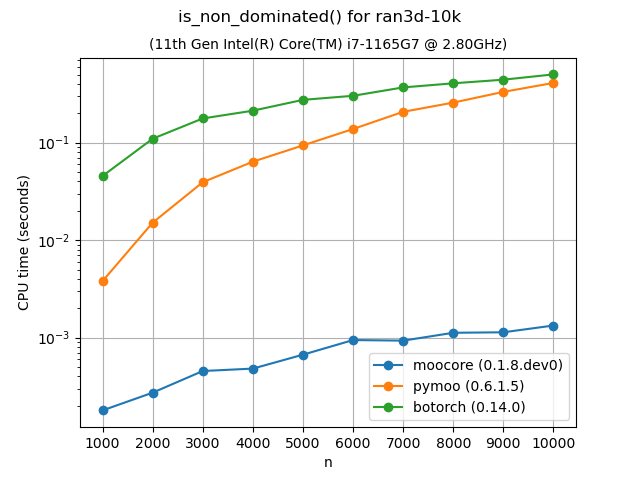
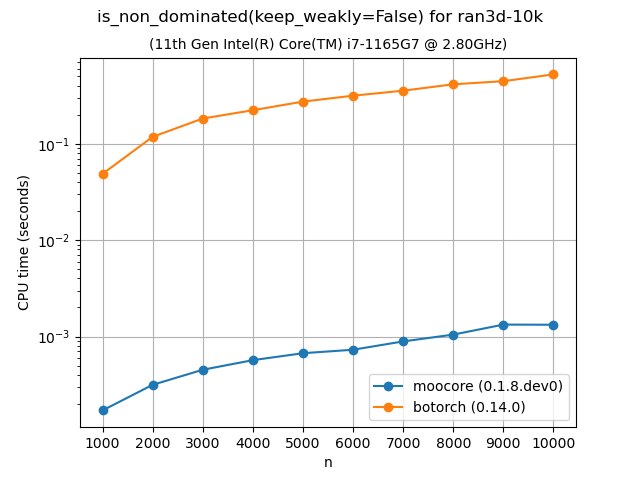
python/ Improve ndom benchmarks.

diff --git a/python/benchmarks/bench_ndom.py b/python/benchmarks/bench_ndom.py
@@ -22,12 +22,12 @@ from pymoo.util.nds.non_dominated_sorting import (
 
 # See https://github.com/multi-objective/testsuite/tree/main/data
 files = {
-    "test2D-200k": dict(file="test2D-200k.inp.xz", range=(1000, 10000, 1000)),
-    "ran3d-10k": dict(file="ran.1000pts.3d.10", range=(1000, 10000, 1000)),
+    "test2D-200k": dict(file="test2D-200k.inp.xz", range=(2000, 20_000, 2000)),
+    "ran3d-10k": dict(file="ran.1000pts.3d.10", range=(1000, 10_000, 1000)),
 }
 
 
-title = "is_non_dominated()"
+title = "is_non_dominated(keep_weakly=False)"
 file_prefix = "ndom"
 
 names = files.keys()
@@ -40,14 +40,60 @@ for name in names:
         n=n,
         bench={
             "moocore": lambda z: np.nonzero(
-                moocore.is_nondominated(z, maximise=True)
+                moocore.is_nondominated(z, maximise=True, keep_weakly=False)
+            )[0],
+            "botorch": lambda z: np.nonzero(
+                np.asarray(botorch_is_non_dominated(z, deduplicate=True))
+            )[0],
+        },
+    )
+
+    values = {}
+    for maxrow in n:
+        z = x[:maxrow, :]
+        for what in bench.keys():
+            if what == "botorch":
+                # Exclude the conversion to torch from the timing.
+                zz = torch.from_numpy(z)
+            else:
+                zz = z
+            values[what] = bench(what, maxrow, zz)
+
+        # Check values
+        for what in bench.keys():
+            if what == "moocore":
+                continue
+            a = values["moocore"]
+            b = values[what]
+            assert np.array_equal(a, b), (
+                f"In {name}, maxrow={maxrow}, {what}={b}  not equal to moocore={a}"
+            )
+
+    del values
+    bench.plots(file_prefix=file_prefix, title=title)
+
+
+title = "is_non_dominated(keep_weakly=True)"
+file_prefix = "wndom"
+
+names = files.keys()
+for name in names:
+    x = moocore.get_dataset(files[name]["file"])[:, :-1]
+    n = get_range(len(x), *files[name]["range"])
+
+    bench = Bench(
+        name=name,
+        n=n,
+        bench={
+            "moocore": lambda z: np.nonzero(
+                moocore.is_nondominated(z, maximise=True, keep_weakly=True)
+            )[0],
+            "botorch": lambda z: np.nonzero(
+                np.asarray(botorch_is_non_dominated(z, deduplicate=False))
             )[0],
             "pymoo": lambda z: pymoo_NonDominatedSorting().do(
                 -z, only_non_dominated_front=True
             ),
-            "botorch": lambda z: np.nonzero(
-                np.asarray(botorch_is_non_dominated(z))
-            )[0],
         },
     )
 

diff --git a/python/doc/source/index.rst b/python/doc/source/index.rst
@@ -80,18 +80,26 @@ The following plots compare the speed of computing the :ref:`hypervolume indicat
    :width: 49%
 
 
-The following plots compare the speed of finding nondominated solutions, equivalent to :func:`moocore.is_nondominated`, in 2D and 3D. As the plots show, `moocore`_ is more than 100 times faster in 2D and 3D than the other packages.
+The following plots compare the speed of finding nondominated solutions, equivalent to :func:`moocore.is_nondominated`, in 2D and 3D. We test both ``keep_weakly=True`` and ``keep_weakly=False`` (the latter is not supported by `pymoo`_). As the plots show, `moocore`_ is more than 100 times faster in 2D and 3D than the other packages.
 
-|pic3| |pic4|
+|wndom_bench-test2D-200k| |wndom_bench-ran3d-10k|
 
-.. |pic3| image:: _static/ndom_bench-test2D-200k-time.png
+.. |wndom_bench-test2D-200k| image:: _static/wndom_bench-test2D-200k-time.png
    :width: 49%
 
-.. |pic4| image:: _static/ndom_bench-ran3d-10k-time.png
+.. |wndom_bench-ran3d-10k| image:: _static/wndom_bench-ran3d-10k-time.png
+   :width: 49%
+
+|ndom_bench-test2D-200k| |ndom_bench-ran3d-10k|
+
+.. |ndom_bench-test2D-200k| image:: _static/ndom_bench-test2D-200k-time.png
+   :width: 49%
+
+.. |ndom_bench-ran3d-10k| image:: _static/ndom_bench-ran3d-10k-time.png
    :width: 49%
 
 
-The following plot compares the speed of computing the :ref:`epsilon indicator  <epsilon_metric>` metric and :ref:`IGD+ indicator <igd_hausdorf>`. Despite the algorithms for computing these metrics are relatively simple and easy to vectorize in Python, the `moocore`_ implementation is still 10 to 100 times faster.
+The following plots compare the speed of computing the :ref:`epsilon indicator  <epsilon_metric>` metric and :ref:`IGD+ indicator <igd_hausdorf>`. Despite the algorithms for computing these metrics are relatively simple and easy to vectorize in Python, the `moocore`_ implementation is still 10 to 100 times faster.
 
 |pic5| |pic6|
 

diff --git a/python/doc/source/reference/functions.metrics.rst b/python/doc/source/reference/functions.metrics.rst
@@ -78,14 +78,14 @@ the average Euclidean distance from each reference point to its nearest
 objective vector. It is also slightly faster to compute.
 
 GD should never be used directly to compare the quality of approximations to a
-Pareto front, as it often contradicts Pareto optimality (it is not weakly
-Pareto-compliant).
+Pareto front, it is not weakly Pareto-compliant and it often contradicts Pareto
+optimality.
 
 IGD is still popular due to historical reasons, but we strongly recommend IGD+
-instead of IGD, since the latter contradicts Pareto optimality in some cases
+instead of IGD, because IGD contradicts Pareto optimality in some cases
 (see examples in :func:`igd_plus`) whereas IGD+ is weakly Pareto-compliant.
 
-The average Hausdorff distance (:math:`\Delta_p(A,R)`) is also not weakly
+The average Hausdorff distance (:math:`\Delta_p(A,R)`) is not weakly
 Pareto-compliant, as shown in the examples in :func:`igd_plus`.
 
 
